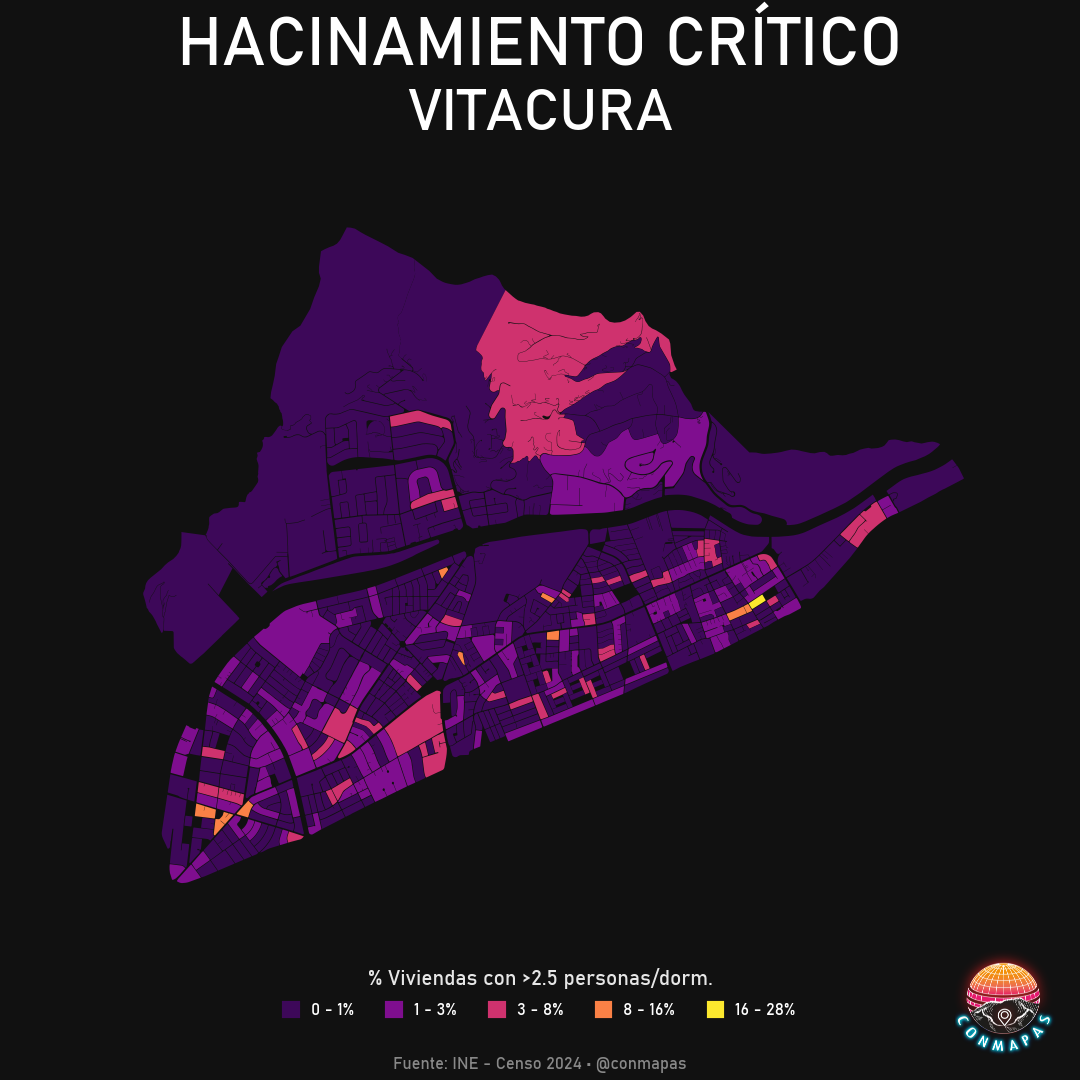
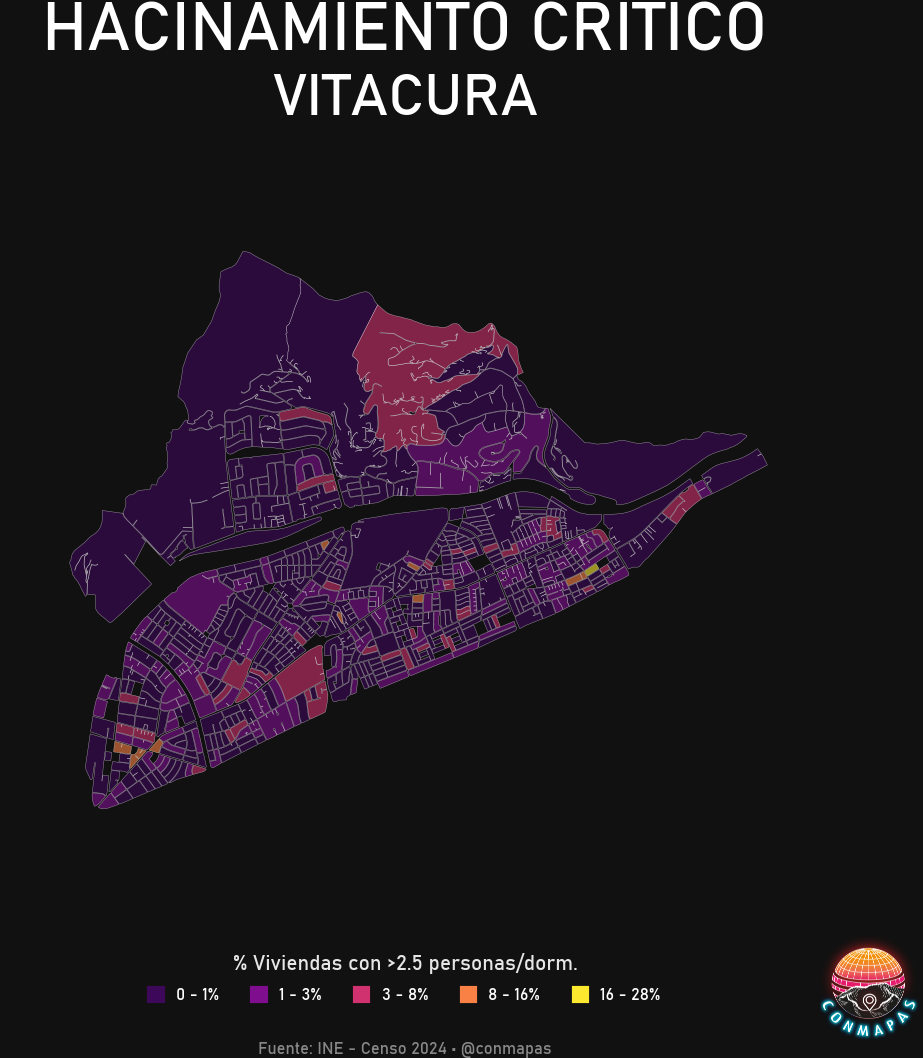
changues

diff --git a/generate_maps.py b/generate_maps.py
@@ -4,12 +4,13 @@ import matplotlib.patches as mpatches
 import os
 from matplotlib.colors import ListedColormap
 import mapclassify
+import contextily as cx # Librería necesaria para el mapa base
 
-# Configuración
+# --- CONFIGURACIÓN ---
 INPUT_FILE = 'Manzanas_Indicadores.gpkg'
-OUTPUT_DIR = 'mapas_finales_instagram' # Nombre final carpeta
+OUTPUT_DIR = 'mapas_finales_instagram'
 DPI = 300
-FIG_SIZE = (3.6, 3.6) # 1080x1080 px
+FIG_SIZE = (3.6, 3.6) # Formato cuadrado para IG (1080x1080 px aprox)
 
 # Estilo Neon Dark High Contrast
 BACKGROUND_COLOR = '#111111' 
@@ -20,15 +21,17 @@ NEON_COLORS = ['#3d0859', '#7f0e8f', '#cf326e', '#fa8146', '#fce82e']
 NEON_CMAP = ListedColormap(NEON_COLORS)
 
 def setup_plot():
+    """Configura el estilo global de matplotlib"""
     plt.style.use('dark_background')
     plt.rcParams['font.family'] = 'sans-serif'
+    # Intenta usar fuentes modernas si están disponibles
     plt.rcParams['font.sans-serif'] = ['Bahnschrift', 'Arial Narrow', 'Arial', 'DejaVu Sans']
     plt.rcParams['axes.facecolor'] = BACKGROUND_COLOR
     plt.rcParams['figure.facecolor'] = BACKGROUND_COLOR
     plt.rcParams['text.color'] = TEXT_COLOR
 
 def create_custom_legend(ax, gdf, column, scheme='FisherJenks', k=5):
-    """Crea una leyenda discreta manual aesthetic"""
+    """Crea una leyenda discreta manual y estética"""
     try:
         valid_data = gdf[column].dropna()
         if valid_data.empty: return
@@ -50,24 +53,25 @@ def create_custom_legend(ax, gdf, column, scheme='FisherJenks', k=5):
         for i, upper_bound in enumerate(bins):
             if str(upper_bound) == 'nan': continue
             color = current_colors[i] if i < len(current_colors) else NEON_COLORS[-1]
+            # Formato de etiqueta
             label = f"{int(lower_bound)} - {int(upper_bound)}%"
             patch = mpatches.Patch(color=color, label=label)
             patches.append(patch)
             lower_bound = upper_bound
-        # Añadir leyenda al eje
-        # Usamos bbox_transform=ax.figure.transFigure para fijar la posición
-        # independientemente de la forma del mapa/ejes.
-        legend = ax.figure.legend(handles=patches, 
-                  loc='lower center', 
-                  bbox_to_anchor=(0.5, 0.05), # Posición fija en la figura (5% desde abajo)
-                  ncol=k, 
-                  frameon=False, 
-                  fontsize=4.0, 
-                  handlelength=0.8, 
-                  handleheight=0.8,
-                  bbox_transform=ax.figure.transFigure, # Coordenadas de figura (0-1)
-                  borderaxespad=0
-                 )
+
+        # Añadir leyenda
+        legend = ax.figure.legend(
+            handles=patches, 
+            loc='lower center', 
+            bbox_to_anchor=(0.5, 0.05), # Posición fija
+            ncol=k, 
+            frameon=False, 
+            fontsize=4.0, 
+            handlelength=0.8, 
+            handleheight=0.8,
+            bbox_transform=ax.figure.transFigure,
+            borderaxespad=0
+        )
         
         for text in legend.get_texts():
             text.set_color(TEXT_COLOR)
@@ -76,16 +80,18 @@ def create_custom_legend(ax, gdf, column, scheme='FisherJenks', k=5):
         print(f"Error creating legend: {e}")
 
 def generate_commune_map(gdf, commune_name, column, title, filename, description=""):
+    """Genera y guarda el mapa estático con estilo Neon y Basemap"""
     print(f"  -> Generando mapa para {commune_name} ({column})...")
     
     commune_gdf = gdf[gdf['COMUNA'] == commune_name].copy()
     if commune_gdf.empty: return
 
+    # CRUCIAL: Convertir a Web Mercator (EPSG:3857) para Contextily
     commune_gdf_toplot = commune_gdf.to_crs(epsg=3857)
 
     fig, ax = plt.subplots(figsize=FIG_SIZE)
     
-    # Plot Discreto
+    # 1. PLOT DE DATOS (Capa Superior - Zorder 2)
     try:
         commune_gdf_toplot.plot(
             column=column,
@@ -94,71 +100,79 @@ def generate_commune_map(gdf, commune_name, column, title, filename, description
             scheme='FisherJenks', 
             k=5,
             legend=False, 
-            alpha=1.0, # Opacidad total (100%)
-            edgecolor='none' 
+            alpha=0.6,          # Transparencia para ver el mapa base debajo
+            edgecolor='#ffffff',# Borde blanco fino para efecto neon
+            linewidth=0.1,      # Grosor del borde
+            zorder=2            # IMPORTANTE: Dibuja esto ENCIMA del mapa base
         )
     except Exception as e:
         print(f"Fallback to continuous plot: {e}")
-        commune_gdf_toplot.plot(column=column, ax=ax, cmap=NEON_CMAP, legend=False, alpha=1.0)
+        commune_gdf_toplot.plot(column=column, ax=ax, cmap=NEON_CMAP, legend=False, alpha=0.6, zorder=2)
 
-    # Fondo Sólido Oscuro
+    # 2. AÑADIR MAPA BASE (Capa Inferior - Zorder 1)
+    try:
+        # Usamos DarkMatterNoLabels para que sea limpio (sin nombres de calles que molesten)
+        cx.add_basemap(
+            ax, 
+            crs=commune_gdf_toplot.crs.to_string(), 
+            source=cx.providers.CartoDB.DarkMatterNoLabels, 
+            attribution=False,
+            zorder=1 # IMPORTANTE: Dibuja esto DEBAJO de los datos
+        )
+    except Exception as e:
+        print(f"    WARN: No se pudo añadir basemap (Check internet connection): {e}")
+
+    # Fondo de seguridad (por si falla el basemap)
     ax.set_facecolor(BACKGROUND_COLOR)
     
-    # Zoom
+    # 3. AJUSTE DE ZOOM
     minx, miny, maxx, maxy = commune_gdf_toplot.total_bounds
-    # Margen mínimo (Zoom Maximo controlado)
-    margin_x = (maxx - minx) * 0.01 
-    # Reducimos margen superior a 0.05 (más cerca del título, mapa más grande)
-    margin_y_top = (maxy - miny) * 0.05 
-    margin_y_bottom = (maxy - miny) * 0.02 
+    margin_x = (maxx - minx) * 0.1 # 10% de margen
+    margin_y_top = (maxy - miny) * 0.2
+    margin_y_bottom = (maxy - miny) * 0.2 
     
     ax.set_xlim(minx - margin_x, maxx + margin_x)
     ax.set_ylim(miny - margin_y_bottom, maxy + margin_y_top)
 
-    # TITULOS (Mayor espaciado vertical)
-    # 1. Título principal (Arriba)
+    # 4. TITULOS Y TEXTOS
+    # Título principal
     plt.text(0.5, 0.94, title.upper(), transform=fig.transFigure, 
              ha="center", fontsize=16, fontweight='bold', color=TEXT_COLOR)
     
-    # 2. Nombre Comuna (Separado del título)
+    # Subtítulo (Nombre Comuna)
     plt.text(0.5, 0.88, commune_name, transform=fig.transFigure,
              ha="center", fontsize=14, fontweight='light', color=TEXT_COLOR)
 
-    # 3. Variable (ELIMINADO a pedido del usuario)
-    # plt.text(0.5, 0.84, f"Variable: {column}", transform=fig.transFigure,
-    #          ha="center", fontsize=6, color=TEXT_COLOR, alpha=0.7)
-
-    # Descripción Breve del Indicador (Encima de la leyenda fija)
+    # Descripción
     if description:
         plt.text(0.5, 0.088, description, transform=fig.transFigure,
                  ha="center", fontsize=5, fontweight='normal', color=TEXT_COLOR, alpha=0.9)
 
-    # LEYENDA MANUAL
+    # Leyenda
     create_custom_legend(ax, commune_gdf_toplot, column, k=5)
 
-    # Fuente (Abajo bien al borde)
+    # Fuente
     plt.text(0.5, 0.010, "Fuente: INE - Censo 2024 • @conmapas", transform=fig.transFigure,
              ha="center", fontsize=4, color=TEXT_COLOR, alpha=0.5)
 
-    # Logo Marca de Agua (Esquina Inferior Derecha)
+    # Logo (Opcional)
     try:
         if os.path.exists('conmapas.png'):
             logo = plt.imread('conmapas.png')
-            # [left, bottom, width, height] en coordenadas de figura (0-1)
-            # Ajustado para esquina inferior derecha
+            # [left, bottom, width, height]
             logo_ax = fig.add_axes([0.88, 0.02, 0.1, 0.1], zorder=10)
             logo_ax.imshow(logo)
             logo_ax.axis('off')
     except Exception as e:
-        print(f"    WARN: No se pudo cargar el logo: {e}")
+        pass
 
     ax.set_axis_off()
     
     if not os.path.exists(OUTPUT_DIR): os.makedirs(OUTPUT_DIR)
     out_path = os.path.join(OUTPUT_DIR, f"{filename}_{commune_name}.png")
     
-    # Guardar EXACTO
-    plt.savefig(out_path, dpi=DPI, facecolor=BACKGROUND_COLOR)
+    # Guardar
+    plt.savefig(out_path, dpi=DPI, facecolor=BACKGROUND_COLOR, bbox_inches='tight', pad_inches=0)
     plt.close()
     print(f"    Guardado: {out_path}")
 
@@ -174,7 +188,7 @@ def assign_metro_area(commune):
     if c in ['CONCEPCIÓN', 'TALCAHUANO', 'CHIGUAYANTE', 'SAN PEDRO DE LA PAZ', 'HUALPÉN', 'PENCO', 'TOMÉ', 'CORONEL', 'LOTA', 'HUALQUI']:
         return 'Gran Concepción'
         
-    # Gran Santiago (34 comunas conurbadas aprox)
+    # Gran Santiago
     santiago_communes = [
         'SANTIAGO', 'CERRILLOS', 'CERRO NAVIA', 'CONCHALÍ', 'EL BOSQUE', 'ESTACIÓN CENTRAL', 'HUECHURABA', 'INDEPENDENCIA', 
         'LA CISTERNA', 'LA FLORIDA', 'LA GRANJA', 'LA PINTANA', 'LA REINA', 'LAS CONDES', 'LO BARNECHEA', 'LO ESPEJO', 
@@ -189,10 +203,15 @@ def assign_metro_area(commune):
 def main():
     setup_plot()
     print(f"Cargando datos: {INPUT_FILE}...")
+    
+    # Verificación simple de archivo
+    if not os.path.exists(INPUT_FILE):
+        print(f"ERROR: No se encuentra el archivo '{INPUT_FILE}'. Verifica la ruta.")
+        return
+
     gdf = gpd.read_file(INPUT_FILE)
     
-    # Definición de indicadores con DESCRIPCIÓN BREVE
-    # (pct_col, titulo, archivo, descripcion, num_col, den_col)
+    # Definición de indicadores
     indicadores_config = [
         ('pct_internet', 'Brecha Digital', 'internet', '% Hogares con conexión fija', 'n_internet', 'n_hog'),       
         ('pct_hacinamiento', 'Hacinamiento Crítico', 'hacinamiento', '% Viviendas con >2.5 personas/dorm.', 'n_viv_hacinadas', 'n_vp'),
@@ -204,9 +223,9 @@ def main():
     cols_agua = ['n_fuente_agua_camion', 'n_fuente_agua_rio', 'n_fuente_agua_pozo']
     has_agua_cols = all(c in gdf.columns for c in cols_agua)
 
-    print("Calculando estadísticas metropolitanas PONDERADAS...")
+    print("Calculando estadísticas metropolitanas...")
     if 'COMUNA' not in gdf.columns:
-        print("ERROR: Falta col COMUNA")
+        print("ERROR: Falta columna COMUNA en el archivo.")
         return
 
     # 1. Agrupar sumarizando
@@ -216,14 +235,12 @@ def main():
     
     stats_raw = gdf.groupby(['COMUNA'])[agg_cols].sum().reset_index()
     
-    # 2. Asignar Área Metro (Filtrado temprano mejor)
+    # 2. Asignar Área Metro
     stats_raw['AREA_METRO'] = stats_raw['COMUNA'].apply(assign_metro_area)
     stats = stats_raw.dropna(subset=['AREA_METRO']).copy()
     
     if stats.empty:
-        print("CRITICAL: Ninguna comuna matcheó con las listas de Áreas Metro. Revisa los nombres (acentos/mayúsculas).")
-        # Debug: imprimir algunas comunas del gdf
-        print("Muestra de comunas en GDF:", gdf['COMUNA'].unique()[:10])
+        print("CRITICAL: Ninguna comuna matcheó con las listas de Áreas Metro.")
         return
 
     # 3. Calcular porcentajes
@@ -239,8 +256,8 @@ def main():
     if has_agua_cols and 'n_vp' in stats:
         stats['pct_deficit_agua'] = ((stats['n_fuente_agua_camion'] + stats['n_fuente_agua_rio'] + stats['n_fuente_agua_pozo']) / stats['n_vp']) * 100
     else:
-         # Fallback simple si falta raw
-         print("WARN: Fallback promedio simple para agua en Metro Areas")
+         # Fallback simple
+         print("WARN: Fallback promedio simple para agua")
          aux = gdf.groupby('COMUNA')['pct_deficit_agua'].mean().reset_index()
          stats = stats.merge(aux, on='COMUNA', suffixes=('', '_simple'))
          stats['pct_deficit_agua'] = stats['pct_deficit_agua'].fillna(stats['pct_deficit_agua_simple'])
@@ -249,24 +266,27 @@ def main():
 
     # 4. Loop Generación
     for col, title, fname_base, desc, _, _ in indicadores_config:
-        print(f"Analizando: {title}...")
-        if col not in stats.columns: continue
+        if col not in stats.columns: 
+            print(f"Saltando {col} (no existe en datos)")
+            continue
+        
+        print(f"Analizando indicador: {title}...")
 
         for area in stats['AREA_METRO'].unique():
             df_area = stats[stats['AREA_METRO'] == area]
             if df_area.empty: continue
             
-            # Caso "Alto"
+            # Caso "Alto" (Máximo valor)
             max_row = df_area.loc[df_area[col].idxmax()]
             fname_max = f"{fname_base}_MAX_{area.replace(' ','')}"
             generate_commune_map(gdf, max_row['COMUNA'], col, title, fname_max, desc)
             
-            # Caso "Bajo"
+            # Caso "Bajo" (Mínimo valor)
             min_row = df_area.loc[df_area[col].idxmin()]
             fname_min = f"{fname_base}_MIN_{area.replace(' ','')}"
             generate_commune_map(gdf, min_row['COMUNA'], col, title, fname_min, desc)
 
-    print("¡Generación metropolitana finalizada!")
+    print("¡Generación finalizada con éxito!")
 
 if __name__ == "__main__":
     main()

diff --git a/check_cx.py b/check_cx.py
@@ -1,0 +1,6 @@
+
+try:
+    import contextily as cx
+    print("Contextily is available")
+except ImportError:
+    print("Contextily is NOT available")
